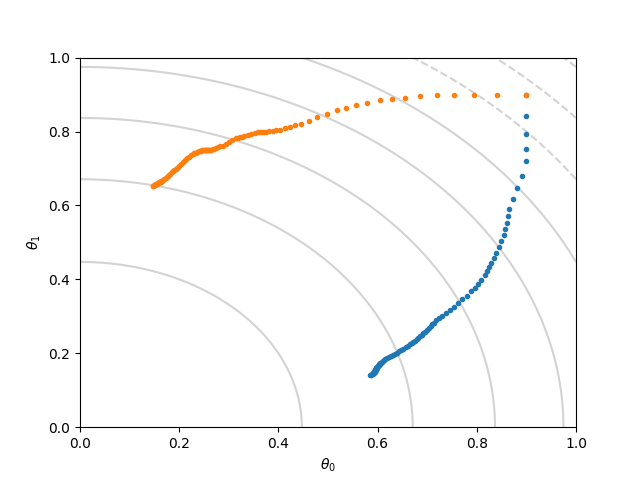
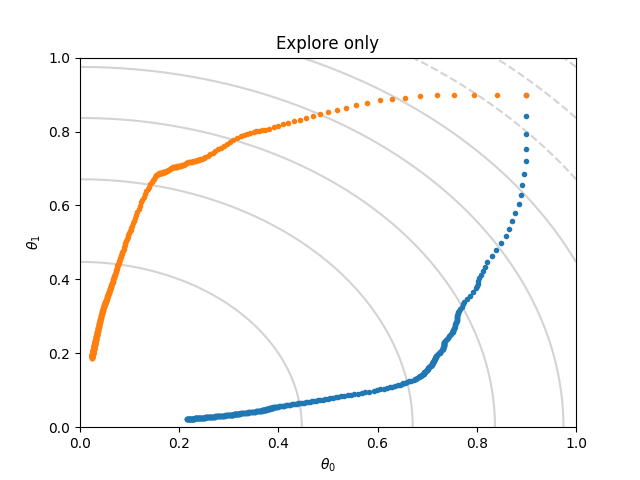
Validate the correctness of training worker.

diff --git a/main_manager.py b/main_manager.py
@@ -22,15 +22,15 @@ if rank == master_rank:
     #The PBT case
     cluster = PBTCluster(2, comm, master_rank)
     #The exploit only case
-    #cluster = PBTCluster(4, comm, master_rank, do_explore=False)
+    #cluster = PBTCluster(2, comm, master_rank, do_explore=False)
     #The explore only case
-    #cluster = PBTCluster(4, comm, master_rank, do_exploit=False)
+    #cluster = PBTCluster(2, comm, master_rank, do_exploit=False)
     #The grid search case
-    #cluster = PBTCluster(4, comm, master_rank, do_exploit=False, do_explore=False)
+    #cluster = PBTCluster(2, comm, master_rank, do_exploit=False, do_explore=False)
 
     start_time = time.time()
 
-    cluster.train(4)
+    cluster.train(50)
     cluster.flush_all_instructions()
 
     end_time = time.time()
